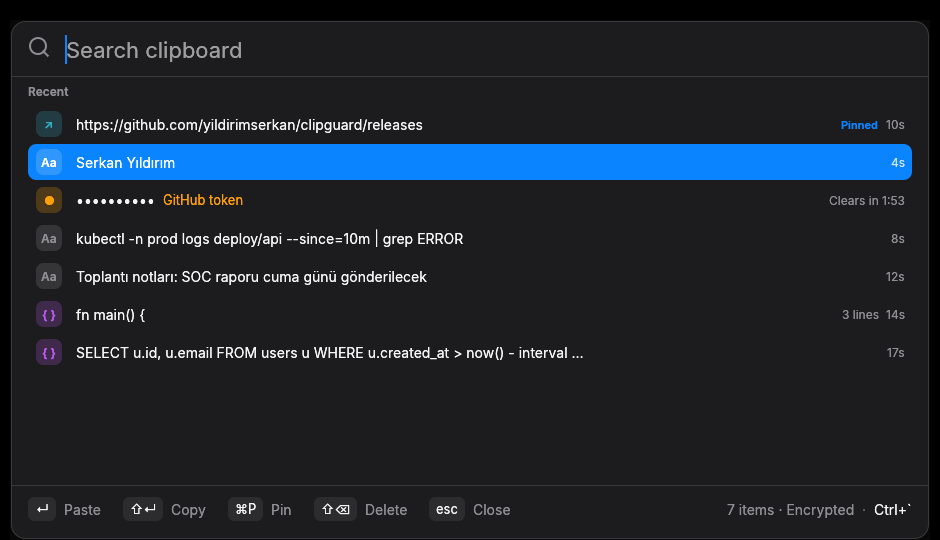
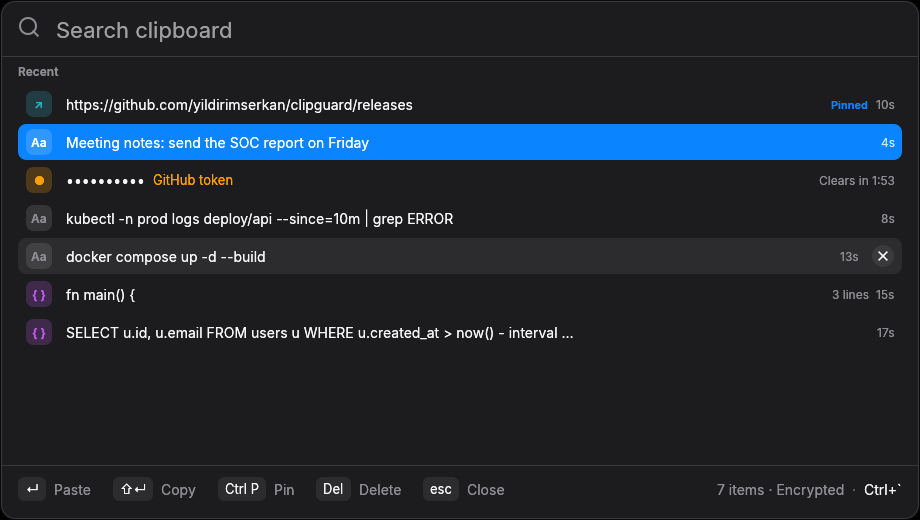
Add project website (GitHub Pages, docs/)
- Landing page: hero, live download links from the latest release
  (OS-detected primary button), features, comparison, security model,
  shortcuts, footer
- Clean screenshot with rounded corners, icon and favicon
- Donate section prepared but hidden until a donation link is chosen

Changed region(s): [[0.0, 0.0, 1.0, 1.0]]

diff --git a/docs/index.html b/docs/index.html
@@ -1,0 +1,344 @@
+<!doctype html>
+<html lang="en">
+<head>
+<meta charset="utf-8">
+<meta name="viewport" content="width=device-width, initial-scale=1">
+<title>clipguard — a clipboard manager that doesn't leak your secrets</title>
+<meta name="description" content="Searchable clipboard history for Windows, macOS and Linux. Encrypted at rest, secrets auto-expire, password managers respected, no network. Open source, MIT.">
+<meta property="og:title" content="clipguard">
+<meta property="og:description" content="A clipboard manager that doesn't leak your secrets. Encrypted history, secrets wiped after 120 s, no network.">
+<meta property="og:image" content="https://yildirimserkan.github.io/clipguard/screenshot.png">
+<meta property="og:type" content="website">
+<meta name="twitter:card" content="summary_large_image">
+<link rel="icon" type="image/png" href="favicon.png">
+<style>
+  :root {
+    --bg: #0b0b0d;
+    --panel: #1c1c1e;
+    --panel-2: #2c2c2e;
+    --stroke: #3a3a3c;
+    --label: #f5f5f7;
+    --secondary: #a1a1a6;
+    --tertiary: #6e6e73;
+    --accent: #0a84ff;
+    --orange: #ff9f0a;
+    --green: #30d158;
+    --radius: 14px;
+    --max: 1080px;
+  }
+  * { box-sizing: border-box; }
+  html { scroll-behavior: smooth; }
+  body {
+    margin: 0;
+    background: var(--bg);
+    color: var(--label);
+    font: 16px/1.55 -apple-system, BlinkMacSystemFont, "Inter", "Segoe UI", Roboto, "Helvetica Neue", Arial, sans-serif;
+    -webkit-font-smoothing: antialiased;
+  }
+  a { color: var(--accent); text-decoration: none; }
+  a:hover { text-decoration: underline; }
+  code, kbd, pre { font-family: ui-monospace, SFMono-Regular, Menlo, Consolas, monospace; }
+  .wrap { max-width: var(--max); margin: 0 auto; padding: 0 16px; }
+
+  /* nav */
+  nav {
+    position: sticky; top: 0; z-index: 10;
+    background: rgba(11, 11, 13, .72);
+    backdrop-filter: saturate(180%) blur(20px);
+    -webkit-backdrop-filter: saturate(180%) blur(20px);
+    border-bottom: 1px solid rgba(255,255,255,.06);
+  }
+  nav .wrap { display: flex; align-items: center; gap: 24px; height: 56px; }
+  .brand { display: flex; align-items: center; gap: 10px; color: var(--label); font-weight: 600; font-size: 17px; }
+  .brand img { width: 26px; height: 26px; }
+  .brand:hover { text-decoration: none; }
+  nav .links { display: flex; gap: 22px; margin-left: auto; font-size: 14px; }
+  nav .links a { color: var(--secondary); }
+  nav .links a:hover { color: var(--label); text-decoration: none; }
+  @media (max-width: 640px) { nav .links a.opt { display: none; } }
+
+  /* hero */
+  .hero { text-align: center; padding-top: 88px; padding-bottom: 40px; }
+  .hero .icon { width: 96px; height: 96px; filter: drop-shadow(0 10px 30px rgba(10,132,255,.25)); }
+  h1 { font-size: clamp(38px, 7vw, 64px); line-height: 1.05; letter-spacing: -.02em; margin: 24px 0 14px; font-weight: 700; }
+  .hero p.lead { font-size: clamp(18px, 2.4vw, 22px); color: var(--secondary); max-width: 680px; margin: 0 auto 32px; }
+  .cta { display: flex; gap: 12px; justify-content: center; flex-wrap: wrap; }
+  .btn {
+    display: inline-flex; align-items: center; gap: 8px;
+    padding: 12px 22px; border-radius: 980px; font-weight: 600; font-size: 16px;
+    border: 1px solid transparent; transition: background .15s, border-color .15s;
+  }
+  .btn:hover { text-decoration: none; }
+  .btn.primary { background: var(--accent); color: #fff; }
+  .btn.primary:hover { background: #2b95ff; }
+  .btn.ghost { color: var(--label); border-color: var(--stroke); }
+  .btn.ghost:hover { border-color: var(--secondary); }
+  .meta { margin-top: 14px; color: var(--tertiary); font-size: 13px; }
+
+  .shot { margin: 56px auto 0; max-width: 920px; }
+  .shot img {
+    width: 100%; height: auto; display: block;
+    border-radius: var(--radius);
+    box-shadow: 0 30px 80px rgba(0,0,0,.6), 0 0 0 1px rgba(255,255,255,.06);
+  }
+
+  /* sections */
+  section.wrap { padding-top: 96px; }
+  h2 { font-size: clamp(28px, 4.5vw, 40px); letter-spacing: -.015em; margin: 0 0 10px; text-align: center; }
+  .sub { text-align: center; color: var(--secondary); max-width: 640px; margin: 0 auto 40px; font-size: 18px; }
+
+  .grid { display: grid; grid-template-columns: repeat(auto-fit, minmax(240px, 1fr)); gap: 14px; }
+  .card { background: var(--panel); border: 1px solid rgba(255,255,255,.06); border-radius: var(--radius); padding: 22px; }
+  .card .badge {
+    width: 36px; height: 36px; border-radius: 9px; display: grid; place-items: center;
+    font-weight: 700; font-size: 15px; margin-bottom: 14px;
+  }
+  .card h3 { margin: 0 0 6px; font-size: 17px; }
+  .card p { margin: 0; color: var(--secondary); font-size: 15px; }
+  .b-blue { background: rgba(10,132,255,.18); color: var(--accent); }
+  .b-orange { background: rgba(255,159,10,.18); color: var(--orange); }
+  .b-green { background: rgba(48,209,88,.18); color: var(--green); }
+  .b-purple { background: rgba(191,90,242,.18); color: #bf5af2; }
+  .b-teal { background: rgba(48,176,199,.18); color: #30b0c7; }
+  .b-gray { background: rgba(142,142,147,.18); color: #8e8e93; }
+
+  /* comparison */
+  .table-wrap { overflow-x: auto; border-radius: var(--radius); border: 1px solid rgba(255,255,255,.06); }
+  table { width: 100%; border-collapse: collapse; background: var(--panel); font-size: 15px; min-width: 560px; }
+  th, td { padding: 14px 18px; text-align: left; border-bottom: 1px solid rgba(255,255,255,.06); vertical-align: top; }
+  th { color: var(--secondary); font-weight: 600; font-size: 13px; text-transform: uppercase; letter-spacing: .04em; }
+  tr:last-child td { border-bottom: 0; }
+  td.bad { color: var(--secondary); }
+  td.good { color: var(--label); }
+  td.good::before { content: "✓ "; color: var(--green); font-weight: 700; }
+
+  /* security */
+  .two { display: grid; grid-template-columns: 1fr 1fr; gap: 14px; }
+  @media (max-width: 760px) { .two { grid-template-columns: 1fr; } }
+  .card ul { margin: 10px 0 0; padding-left: 18px; color: var(--secondary); font-size: 15px; }
+  .card li { margin: 6px 0; }
+  .card h3.ok { color: var(--green); }
+  .card h3.warn { color: var(--orange); }
+
+  /* download */
+  .dl .card h3 { display: flex; align-items: center; gap: 10px; }
+  .dl .card .files { margin-top: 14px; display: flex; flex-direction: column; gap: 8px; }
+  .dl .card a.file {
+    display: flex; justify-content: space-between; align-items: center;
+    background: var(--panel-2); padding: 10px 14px; border-radius: 10px; color: var(--label); font-size: 14px;
+  }
+  .dl .card a.file:hover { text-decoration: none; background: #3a3a3c; }
+  .dl .card a.file span { color: var(--tertiary); font-size: 12px; }
+  pre {
+    background: #0f0f11; border: 1px solid rgba(255,255,255,.06); border-radius: 10px;
+    padding: 12px 14px; overflow-x: auto; font-size: 13px; color: #d1d1d6; margin: 12px 0 0;
+  }
+  .note { color: var(--tertiary); font-size: 13px; margin-top: 10px; }
+
+  /* keys */
+  kbd {
+    display: inline-block; min-width: 24px; padding: 2px 7px; border-radius: 6px;
+    background: var(--panel-2); border: 1px solid var(--stroke); border-bottom-width: 2px;
+    color: var(--label); font-size: 13px; text-align: center; line-height: 1.5;
+  }
+
+  /* donate */
+  .donate { text-align: center; }
+  .donate .card { max-width: 640px; margin: 0 auto; padding: 36px 28px; }
+  .donate .heart { font-size: 34px; }
+
+  footer.wrap { padding-top: 88px; padding-bottom: 48px; }
+  footer { color: var(--tertiary); font-size: 13px; text-align: center; }
+  footer a { color: var(--secondary); }
+  footer p { margin: 6px 0; }
+</style>
+</head>
+<body>
+
+<nav>
+  <div class="wrap">
+    <a class="brand" href="#"><img src="icon.png" alt="">clipguard</a>
+    <div class="links">
+      <a class="opt" href="#features">Features</a>
+      <a class="opt" href="#security">Security</a>
+      <a href="#download">Download</a>
+      <a href="#donate" id="donate-nav" hidden>Donate</a>
+      <a href="https://github.com/yildirimserkan/clipguard">GitHub</a>
+    </div>
+  </div>
+</nav>
+
+<header class="hero wrap">
+  <img class="icon" src="icon.png" alt="clipguard icon">
+  <h1>Your clipboard history.<br>Without the leaks.</h1>
+  <p class="lead">Searchable clipboard history like you're used to, built security-first: encrypted at rest, secrets wiped after 120 seconds, password managers respected, no network at all.</p>
+  <div class="cta">
+    <a class="btn primary" id="dl-primary" href="https://github.com/yildirimserkan/clipguard/releases/latest">Download</a>
+    <a class="btn ghost" href="https://github.com/yildirimserkan/clipguard">View source</a>
+  </div>
+  <div class="meta" id="dl-meta">Windows · macOS · Linux — free and open source (MIT)</div>
+  <div class="shot"><img src="screenshot.png" alt="clipguard window with clipboard history, a masked GitHub token and a pinned link" width="920" height="520"></div>
+</header>
+
+<section id="features" class="wrap">
+  <h2>Everything you copy. One keystroke away.</h2>
+  <p class="sub">Open it with a hotkey, type a few letters, press Enter. It pastes straight into the app you were using.</p>
+  <div class="grid">
+    <div class="card"><div class="badge b-blue"><svg width="18" height="18" viewBox="0 0 24 24" fill="none" stroke="currentColor" stroke-width="2.4" stroke-linecap="round"><circle cx="10.5" cy="10.5" r="6.5"/><path d="M15.5 15.5 21 21"/></svg></div><h3>Instant fuzzy search</h3><p>Find that SQL query from three weeks ago by typing a few letters of it.</p></div>
+    <div class="card"><div class="badge b-gray">↵</div><h3>Keyboard first</h3><p>Hotkey, arrows, Enter to paste into the previous app. Shift+Enter just copies.</p></div>
+    <div class="card"><div class="badge b-purple">{ }</div><h3>Made for developers</h3><p>Code, links and text get their own badges. Multi-line clips show their line count.</p></div>
+    <div class="card"><div class="badge b-teal">◆</div><h3>Pin what you reuse</h3><p>Pinned clips are kept. Everything else is kept for 90 days or 10,000 clips.</p></div>
+    <div class="card"><div class="badge b-orange">●</div><h3>Secrets handled</h3><p>Tokens, API keys and passwords are masked on screen and wiped after 120 seconds.</p></div>
+    <div class="card"><div class="badge b-green">⚑</div><h3>Ready for teams</h3><p>Per-machine MSI with silent install for Intune or GPO. Start-at-login stays a per-user choice.</p></div>
+  </div>
+</section>
+
+<section id="compare" class="wrap">
+  <h2>Why another clipboard manager?</h2>
+  <p class="sub">Classic clipboard managers keep everything you copy, forever, in plain text: passwords and API keys included.</p>
+  <div class="table-wrap">
+    <table>
+      <thead><tr><th></th><th>Typical clipboard manager</th><th>clipguard</th></tr></thead>
+      <tbody>
+        <tr><td>History on disk</td><td class="bad">Plain-text database</td><td class="good">AES-256-GCM, key in the OS keystore</td></tr>
+        <tr><td>Tokens, keys, passwords</td><td class="bad">Kept forever</td><td class="good">Detected, deleted after 120 s, clipboard wiped</td></tr>
+        <tr><td>Password managers</td><td class="bad">Often recorded anyway</td><td class="good">Respected, never stored</td></tr>
+        <tr><td>Network</td><td class="bad">Optional sync, open port</td><td class="good">None: no sockets, no telemetry</td></tr>
+        <tr><td>Duplicate detection</td><td class="bad">Plain hash reveals what was copied</td><td class="good">Keyed HMAC</td></tr>
+      </tbody>
+    </table>
+  </div>
+</section>
+
+<section id="security" class="wrap">
+  <h2>An honest security model</h2>
+  <p class="sub">What clipguard protects, and what it doesn't. Full details in the <a href="https://github.com/yildirimserkan/clipguard#security-model">README</a>.</p>
+  <div class="two">
+    <div class="card">
+      <h3 class="ok">Protected</h3>
+      <ul>
+        <li>Every clip encrypted with AES-256-GCM and bound to its row, so tampering is detected.</li>
+        <li>Random master key kept only in Windows Credential Manager, macOS Keychain or Linux Secret Service. No keystore, no start: never a key file.</li>
+        <li>Deleted clips overwritten on disk. Unix permissions 0600/0700.</li>
+        <li>Password-manager markers honoured on all three platforms.</li>
+        <li>No network code at all.</li>
+      </ul>
+    </div>
+    <div class="card">
+      <h3 class="warn">Not protected</h3>
+      <ul>
+        <li>Malware running as your user can ask the keystore for the key, just like clipguard does.</li>
+        <li>Timestamps and pin/secret flags stay readable, so cleanup works without decrypting.</li>
+        <li>Secret detection is pattern-based: unknown formats are stored as normal clips.</li>
+      </ul>
+    </div>
+  </div>
+</section>
+
+<section id="download" class="wrap dl">
+  <h2>Download</h2>
+  <p class="sub" id="dl-version">Latest release from GitHub.</p>
+  <div class="grid">
+    <div class="card">
+      <h3>Windows</h3>
+      <div class="files">
+        <a class="file" data-asset="-x64.msi" href="https://github.com/yildirimserkan/clipguard/releases/latest">Installer (.msi) <span>x64</span></a>
+        <a class="file" data-asset="-windows-x64-portable.zip" href="https://github.com/yildirimserkan/clipguard/releases/latest">Portable (.zip) <span>no install</span></a>
+      </div>
+      <pre>msiexec /i clipguard-&lt;version&gt;-x64.msi /qn</pre>
+      <p class="note">Not code-signed yet: SmartScreen may warn. More info → Run anyway.</p>
+    </div>
+    <div class="card">
+      <h3>macOS</h3>
+      <div class="files">
+        <a class="file" data-asset="-macos-arm64.tar.gz" href="https://github.com/yildirimserkan/clipguard/releases/latest">Apple Silicon (.tar.gz) <span>arm64</span></a>
+      </div>
+      <pre>tar -xzf clipguard-*-macos-arm64.tar.gz
+xattr -d com.apple.quarantine clipguard
+./clipguard</pre>
+      <p class="note">Auto-paste needs Accessibility permission.</p>
+    </div>
+    <div class="card">
+      <h3>Linux</h3>
+      <div class="files">
+        <a class="file" data-asset="-linux-x64.tar.gz" href="https://github.com/yildirimserkan/clipguard/releases/latest">x64 (.tar.gz) <span>X11</span></a>
+      </div>
+      <pre>tar -xzf clipguard-*-linux-x64.tar.gz
+./clipguard</pre>
+      <p class="note">Needs a Secret Service keyring (GNOME Keyring, KWallet, KeePassXC).</p>
+    </div>
+  </div>
+  <p class="note" style="text-align:center;margin-top:18px">Verify downloads with <a data-asset="SHA256SUMS.txt" href="https://github.com/yildirimserkan/clipguard/releases/latest">SHA256SUMS.txt</a>.</p>
+</section>
+
+<section id="shortcuts" class="wrap">
+  <h2>Shortcuts</h2>
+  <p class="sub">The active hotkey is always shown in the window's footer.</p>
+  <div class="table-wrap">
+    <table>
+      <thead><tr><th>Action</th><th>Windows / Linux</th><th>macOS</th></tr></thead>
+      <tbody>
+        <tr><td>Open / hide</td><td><kbd>Ctrl</kbd> <kbd>`</kbd></td><td><kbd>⌘</kbd> <kbd>⇧</kbd> <kbd>C</kbd></td></tr>
+        <tr><td>Paste into previous app</td><td><kbd>Enter</kbd></td><td><kbd>↵</kbd></td></tr>
+        <tr><td>Copy only</td><td><kbd>Shift</kbd> <kbd>Enter</kbd></td><td><kbd>⇧</kbd> <kbd>↵</kbd></td></tr>
+        <tr><td>Pin / unpin</td><td><kbd>Ctrl</kbd> <kbd>P</kbd></td><td><kbd>⌘</kbd> <kbd>P</kbd></td></tr>
+        <tr><td>Delete</td><td><kbd>Del</kbd> or hover → ×</td><td><kbd>⌘</kbd> <kbd>⌫</kbd> or hover → ×</td></tr>
+        <tr><td>Hide</td><td><kbd>Esc</kbd></td><td><kbd>esc</kbd></td></tr>
+      </tbody>
+    </table>
+  </div>
+</section>
+
+<section id="donate" class="wrap donate" hidden>
+  <div class="card">
+    <div class="heart">♥</div>
+    <h2 style="margin-top:8px">Support clipguard</h2>
+    <p class="sub" style="margin-bottom:24px">clipguard is free and always will be. If it saves you time, a small donation helps pay for code signing and keeps development going.</p>
+    <a class="btn primary" id="donate-btn" href="DONATE_URL">Donate</a>
+  </div>
+</section>
+
+<footer class="wrap">
+  <p>clipguard is open source under the <a href="https://github.com/yildirimserkan/clipguard/blob/main/LICENSE">MIT licence</a> · made by <a href="https://serkanyildirim.tr">Serkan Yildirim</a></p>
+  <p><a href="https://github.com/yildirimserkan/clipguard/issues">Report an issue</a> · <a href="https://github.com/yildirimserkan/clipguard/releases">All releases</a></p>
+  <p>Not affiliated with Ditto or any other clipboard manager.</p>
+</footer>
+
+<script>
+// Point download links at the actual files of the latest release.
+// Falls back to the releases page if the API is unreachable or rate-limited.
+(async () => {
+  try {
+    const r = await fetch("https://api.github.com/repos/yildirimserkan/clipguard/releases/latest");
+    if (!r.ok) return;
+    const rel = await r.json();
+    const assets = rel.assets || [];
+    const find = (suffix) => assets.find((a) => a.name.endsWith(suffix));
+
+    document.querySelectorAll("[data-asset]").forEach((el) => {
+      const a = find(el.dataset.asset);
+      if (a) el.href = a.browser_download_url;
+    });
+    const v = (rel.tag_name || "").replace(/^v/, "");
+    if (v) document.getElementById("dl-version").textContent = "Version " + v + " — latest release.";
+
+    // Primary button: pick the right file for the visitor's OS.
+    const ua = navigator.userAgent;
+    const [suffix, label] =
+      /Windows/.test(ua) ? ["-x64.msi", "Download for Windows"] :
+      /Mac/.test(ua) ? ["-macos-arm64.tar.gz", "Download for macOS"] :
+      /Linux/.test(ua) && !/Android/.test(ua) ? ["-linux-x64.tar.gz", "Download for Linux"] :
+      [null, null];
+    const a = suffix && find(suffix);
+    if (a) {
+      const btn = document.getElementById("dl-primary");
+      btn.href = a.browser_download_url;
+      btn.textContent = label;
+      document.getElementById("dl-meta").textContent =
+        "Version " + v + " · Also for other platforms below · MIT";
+    }
+  } catch (_) { /* keep static links */ }
+})();
+</script>
+</body>
+</html>
